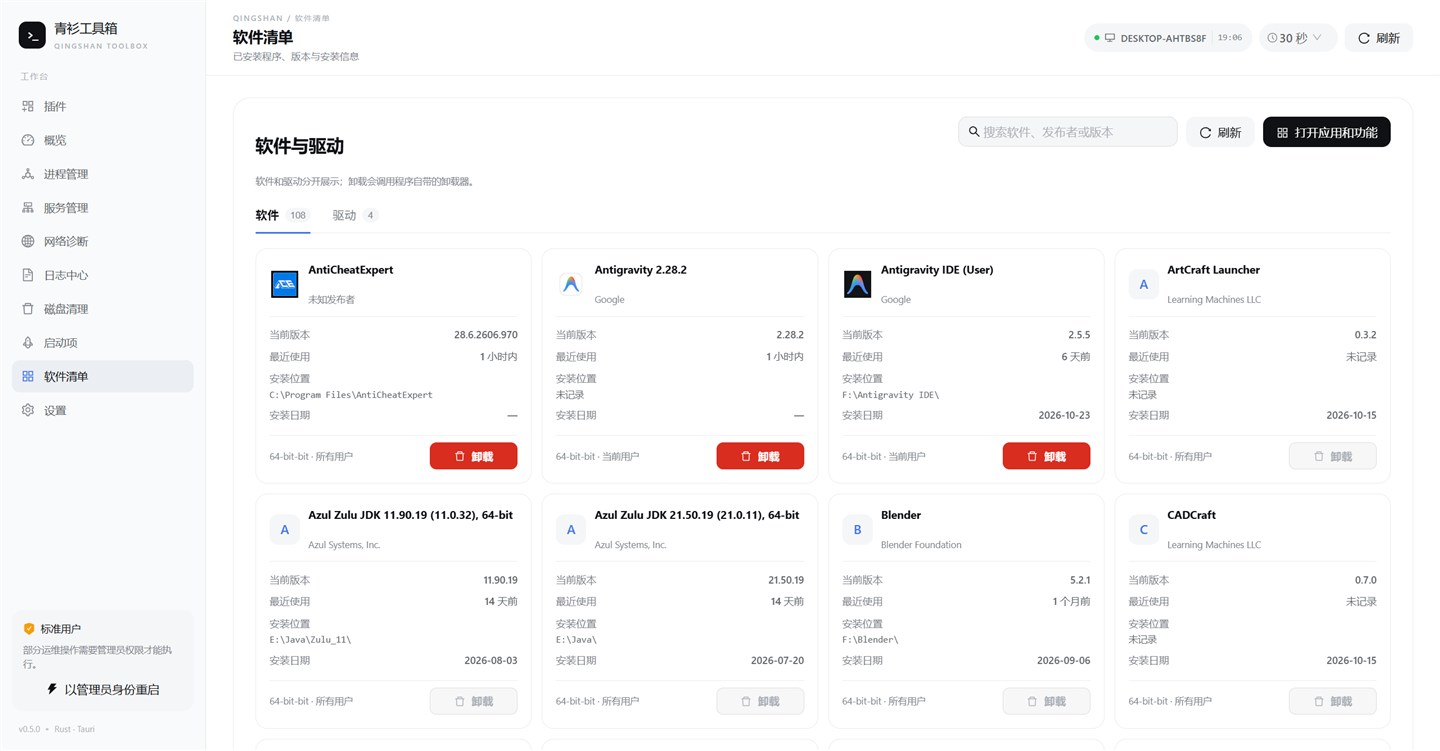
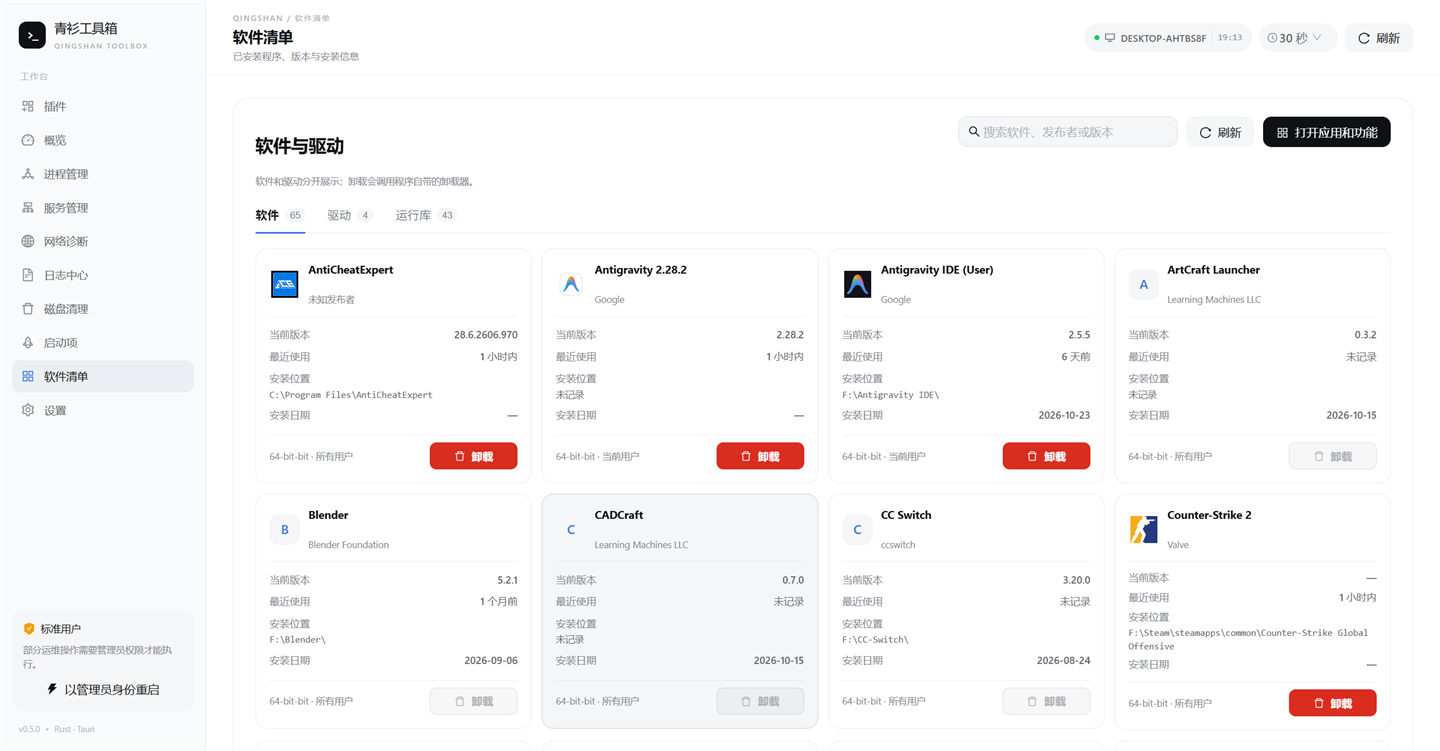
feat: add runtime category to software inventory

diff --git a/desktop/ui/src/pages/Software.tsx b/desktop/ui/src/pages/Software.tsx
@@ -51,8 +51,9 @@ export default function SoftwarePage() {
   };
 
   const keyword = search.trim().toLowerCase();
-  const applicationCount = apps.filter((app) => app.kind !== "driver").length;
+  const applicationCount = apps.filter((app) => app.kind === "application").length;
   const driverCount = apps.filter((app) => app.kind === "driver").length;
+  const runtimeCount = apps.filter((app) => app.kind === "runtime").length;
   const sectionApps = useMemo(
     () => apps.filter((app) => app.kind === kind),
     [apps, kind],
@@ -68,6 +69,7 @@ export default function SoftwarePage() {
       ),
     [sectionApps, keyword],
   );
+  const kindName = kind === "driver" ? "驱动" : kind === "runtime" ? "运行库" : "软件";
 
   return (
     <div className="page-stack maintenance-page">
@@ -81,7 +83,13 @@ export default function SoftwarePage() {
             <Input
               allowClear
               prefix={<SearchOutlined />}
-              placeholder={kind === "driver" ? "搜索驱动、发布者或版本" : "搜索软件、发布者或版本"}
+              placeholder={
+                kind === "driver"
+                  ? "搜索驱动、发布者或版本"
+                  : kind === "runtime"
+                    ? "搜索运行库、发布者或版本"
+                    : "搜索软件、发布者或版本"
+              }
               value={search}
               onChange={(event) => setSearch(event.target.value)}
               style={{ width: 260 }}
@@ -120,6 +128,15 @@ export default function SoftwarePage() {
           >
             驱动 <span className="software-tab-count">{driverCount}</span>
           </button>
+          <button
+            type="button"
+            role="tab"
+            aria-selected={kind === "runtime"}
+            className={kind === "runtime" ? "software-tab active" : "software-tab"}
+            onClick={() => setKind("runtime")}
+          >
+            运行库 <span className="software-tab-count">{runtimeCount}</span>
+          </button>
         </div>
 
         {loading ? (
@@ -127,9 +144,7 @@ export default function SoftwarePage() {
         ) : filtered.length === 0 ? (
           <Empty
             description={
-              keyword
-                ? `没有匹配的${kind === "driver" ? "驱动" : "软件"}`
-                : `未发现已安装的${kind === "driver" ? "驱动" : "软件"}`
+              keyword ? `没有匹配的${kindName}` : `未发现已安装的${kindName}`
             }
           />
         ) : (
@@ -194,9 +209,9 @@ export default function SoftwarePage() {
         )}
 
         <div className="maint-footnote">
-          共 {sectionApps.length} 个{kind === "driver" ? "驱动" : "软件"}，当前显示{" "}
-          {filtered.length} 个。最近使用来自 Windows UserAssist 或程序文件访问时间，系统未记录时
-          显示「未记录」。卸载会调用程序自带的卸载器，可能需要管理员权限；完成后请刷新列表。
+          共 {sectionApps.length} 个{kindName}，当前显示 {filtered.length} 个。最近使用来自 Windows
+          UserAssist 或程序文件访问时间，系统未记录时显示「未记录」。卸载会调用程序自带的卸载器，
+          可能需要管理员权限；完成后请刷新列表。
         </div>
       </section>
 

diff --git a/desktop/ui/src/mock.ts b/desktop/ui/src/mock.ts
@@ -763,6 +763,8 @@ let softwareSeed: InstalledApp[] = [
   { id: "wechat", kind: "application", name: "微信", version: "4.0.1", publisher: "Tencent", installDate: "2026-10-05", installLocation: "C:\\Program Files\\Tencent\\WeChat", uninstallString: "C:\\Program Files\\Tencent\\WeChat\\Uninstall.exe", scope: "machine", registryView: "32-bit" },
   { id: "intel-graphics", kind: "driver", name: "Intel(R) Graphics Software & Drivers", version: "31.0.101.5382", publisher: "Intel Corporation", installDate: "2026-10-12", installLocation: "C:\\Program Files\\Intel\\Intel(R) Graphics Software & Drivers", uninstallString: "C:\\Program Files\\Intel\\Intel(R) Graphics Software & Drivers\\Uninstaller.exe --uninstaller", scope: "machine", registryView: "64-bit" },
   { id: "intel-dsa", kind: "driver", name: "Intel(R) Driver & Support Assistant", version: "25.2.0.6", publisher: "Intel Corporation", installDate: "2026-08-30", installLocation: "C:\\Program Files\\Intel\\Intel Driver && Support Assistant", uninstallString: "MsiExec.exe /X{2C633E0E-1F95-42CC-95D8-63C12DD9672F}", scope: "machine", registryView: "64-bit" },
+  { id: "dotnet-runtime", kind: "runtime", name: "Microsoft .NET Runtime - 10.0.7 (x64)", version: "10.0.7", publisher: "Microsoft Corporation", installDate: "2026-09-10", installLocation: "C:\\Program Files\\dotnet\\shared\\Microsoft.NETCore.App", uninstallString: "C:\\Program Files\\dotnet\\shared\\Microsoft.NETCore.App\\10.0.7\\dotnet-runtime.exe uninstall", scope: "machine", registryView: "64-bit" },
+  { id: "vcpp-redist", kind: "runtime", name: "Microsoft Visual C++ 2015-2022 Redistributable (x64) - 14.44.35211", version: "14.44.35211", publisher: "Microsoft Corporation", installDate: "2026-07-12", installLocation: "", uninstallString: "MsiExec.exe /X{9A2B3C4D-5E6F-7A8B-9C0D-1E2F3A4B5C6D}", scope: "machine", registryView: "64-bit" },
 ];
 
 export function mockInstalledApps(): InstalledApp[] {

diff --git a/desktop/ui/src/types.ts b/desktop/ui/src/types.ts
@@ -270,7 +270,7 @@ export interface ScheduledTask {
 }
 
 export type SoftwareScope = "user" | "machine";
-export type SoftwareKind = "application" | "driver";
+export type SoftwareKind = "application" | "driver" | "runtime";
 
 export interface InstalledApp {
   id: string;

diff --git a/desktop/crates/devops-platform/src/win/software.rs b/desktop/crates/devops-platform/src/win/software.rs
@@ -220,7 +220,23 @@ fn classify_kind(name: &str, uninstall_string: &str) -> SoftwareKind {
         "bluetooth driver",
     ];
     if DRIVER_MARKERS.iter().any(|marker| name.contains(marker)) {
-        SoftwareKind::Driver
+        return SoftwareKind::Driver;
+    }
+    const RUNTIME_MARKERS: [&str; 11] = [
+        ".net",
+        "dotnet",
+        "asp.net",
+        "runtime",
+        "redistributable",
+        "visual c++",
+        "vc++",
+        "webview2",
+        "java",
+        "jre",
+        "jdk",
+    ];
+    if RUNTIME_MARKERS.iter().any(|marker| name.contains(marker)) {
+        SoftwareKind::Runtime
     } else {
         SoftwareKind::Application
     }
@@ -379,6 +395,21 @@ mod tests {
         assert_eq!(
             classify_kind("Intel Computing Improvement Program", ""),
             SoftwareKind::Application
+        );
+        assert_eq!(
+            classify_kind("Microsoft .NET Runtime - 10.0.7 (x64)", ""),
+            SoftwareKind::Runtime
+        );
+        assert_eq!(
+            classify_kind(
+                "Microsoft Visual C++ 2015-2022 Redistributable (x64) - 14.44.35211",
+                ""
+            ),
+            SoftwareKind::Runtime
+        );
+        assert_eq!(
+            classify_kind("Microsoft Edge WebView2 Runtime", ""),
+            SoftwareKind::Runtime
         );
     }
 }

diff --git a/desktop/crates/devops-core/src/software.rs b/desktop/crates/devops-core/src/software.rs
@@ -12,6 +12,7 @@ pub enum SoftwareScope {
 pub enum SoftwareKind {
     Application,
     Driver,
+    Runtime,
 }
 
 #[derive(Debug, Clone, Serialize, Deserialize)]

diff --git a/README.md b/README.md
@@ -28,9 +28,11 @@
 
 ![启动项与计划任务](docs/images/startup-page.png)
 
-![软件清单：软件与驱动分开展示](docs/images/software-page.png)
+![软件清单：软件、驱动、运行库分开](docs/images/software-page.png)
 
 ![驱动列表](docs/images/software-drivers.png)
+
+![运行库列表](docs/images/software-runtimes.png)
 
 更多界面：[深色主题](docs/images/overview-dark.png) · [进程管理](docs/images/processes.png) · [服务管理](docs/images/services.png) · [网络诊断](docs/images/network.png) · [设置](docs/images/settings.png) · [插件详情](docs/images/plugins-detail.png) · [添加插件](docs/images/plugins-add.png)
 
@@ -48,7 +50,7 @@
 | 磁盘清理 | 临时文件、浏览器缓存、崩溃转储、Windows Update 缓存、回收站扫描与清理 | 固定白名单，按 id 清理；不触碰个人文档；系统目录需要管理员权限 |
 | 启动项 | Run 注册表与启动文件夹、启用状态、启停 | 通过 StartupApproved 写回；系统级项目需要管理员权限 |
 | 计划任务 | 任务列表、状态、启停 | 优先读取任务计划服务，受限环境回退任务文件；系统任务需管理员权限 |
-| 软件清单 | 软件与驱动分成两个 Tab；四列紧凑卡片展示，优先显示真实 Windows 图标，并列出当前版本、最近使用、安装位置；每张卡片可启动程序自带卸载器 | 驱动按注册表名称与驱动安装器识别，可能有个别归类偏差；卸载需管理员权限，青衫工具箱不直接删除文件 |
+| 软件清单 | 软件、驱动、运行库分成三个 Tab；四列紧凑卡片展示，优先显示真实 Windows 图标，并列出当前版本、最近使用、安装位置；每张卡片可启动程序自带卸载器 | 驱动/运行库按注册表名称与安装器识别，可能有个别归类偏差；卸载需管理员权限，青衫工具箱不直接删除文件 |
 | 插件 | 独立「插件」页：已安装 / 发现、启停、搜索筛选、添加本地插件、官方可选包安装、详情与移除 | 声明式 `plugin.json`，不执行第三方代码；插件页结构参考 DSH 插件管理 |
 | 权限 | 检测 UAC 提权状态、以管理员身份重启 | 通过 `ShellExecuteW(runas)` 触发 |
 | 体验 | 深色/浅色主题、跟随系统、DSH 同源视觉、WebView2 | 主题记忆在本机，支持 `?theme=dark` 预览 |

diff --git a/docs/roadmap.md b/docs/roadmap.md
@@ -23,7 +23,7 @@
 - [ ] 日志中心扩展：应用日志文件、更多通道与实时跟随
 - [x] 磁盘清理：临时文件、回收站、浏览器缓存、Windows Update 缓存，带预估与白名单
 - [x] 启动项与计划任务：查看、禁用/启用（计划任务「下次运行时间」待补）
-- [x] 软件清单：软件与驱动分成两个 Tab，四列紧凑卡片展示已安装程序，优先显示真实 Windows 图标，含当前版本、最近使用、安装位置；每张卡片可启动程序自带卸载器（系统级需要管理员权限）
+- [x] 软件清单：软件、驱动、运行库分成三个 Tab，四列紧凑卡片展示已安装程序，优先显示真实 Windows 图标，含当前版本、最近使用、安装位置；每张卡片可启动程序自带卸载器（系统级需要管理员权限）
 
 优先级 P1：
 
